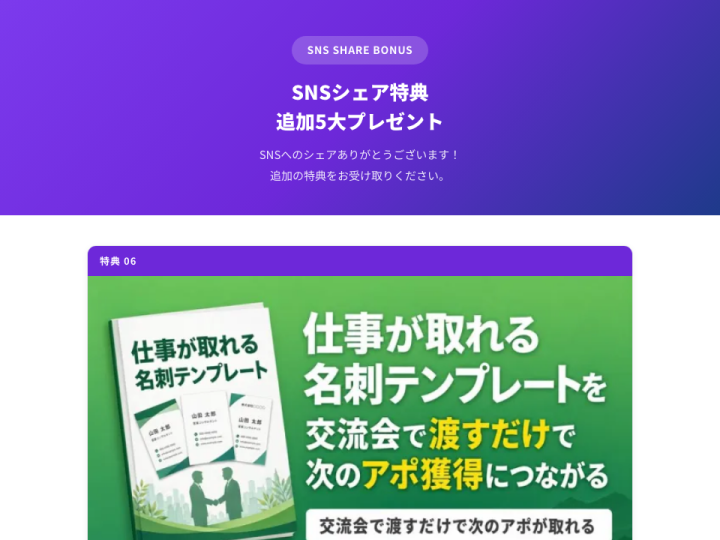
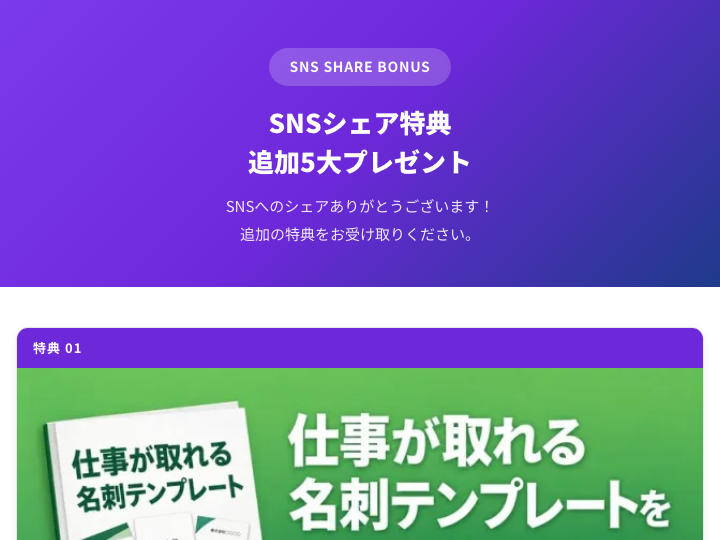
片岡第2期 素材集：特典の番号をSNSシェア特典01〜05・Day1感想特典06〜10に入れ替え

diff --git a/kataoka-phase2-materials/016.html b/kataoka-phase2-materials/016.html
@@ -1,5 +1,5 @@
 <!DOCTYPE html><html lang="ja"><head><meta charset="UTF-8"><meta name="viewport" content="width=device-width, initial-scale=1"><meta name="robots" content="noindex,nofollow">
-<title>特典配布ページ｜Day1感想アウトプット特典（特典01〜05） - 片岡守 第2期（Claude特化型 AI顧問のはじめかた）プロモーション素材集</title><style>
+<title>特典配布ページ｜Day1感想アウトプット特典（特典06〜10） - 片岡守 第2期（Claude特化型 AI顧問のはじめかた）プロモーション素材集</title><style>
 :root {
   --main: #2CB596; --sub: #189B7D; --deep: #0B7564;
   --bg: #F0FAF8; --bg-top: #F7FCFB; --ink: #243B36; --ink-soft: #5B726B;
@@ -481,7 +481,7 @@ a:focus-visible, summary:focus-visible { outline: 3px solid rgba(44,181,150,0.34
 <a href="086.html" class="sidebar-item tree-leaf">個別説明会スライド｜載せる文字</a>
 </details>
 </details></details><a class="tree-all-link" href="contents.html">全件を一覧で見る</a></nav>
-<main class="content"><article class="article"><h1>特典配布ページ｜Day1感想アウトプット特典（特典01〜05）</h1>
+<main class="content"><article class="article"><h1>特典配布ページ｜Day1感想アウトプット特典（特典06〜10）</h1>
 <h2>共有用のページ</h2>
 <p><a href="https://kataoka-phase2-lp.vercel.app/bonus-seminar.html">https://kataoka-phase2-lp.vercel.app/bonus-seminar.html</a></p>
 <table>
@@ -494,7 +494,7 @@ a:focus-visible, summary:focus-visible { outline: 3px solid rgba(44,181,150,0.34
 <tbody>
 <tr>
 <td>ページの役割</td>
-<td>Day1ライブの感想を書き、公式LINEに送った方へ、特典01〜05を渡すページ（URLは公式LINEの個別メッセージで送る）</td>
+<td>Day1ライブの感想を書き、公式LINEに送った方へ、特典06〜10を渡すページ（URLは公式LINEの個別メッセージで送る）</td>
 </tr>
 <tr>
 <td>公開先</td>
@@ -502,7 +502,7 @@ a:focus-visible, summary:focus-visible { outline: 3px solid rgba(44,181,150,0.34
 </tr>
 <tr>
 <td>本文の取得</td>
-<td>2026-11-02 09:36 に共有用ページのHTMLから取得</td>
+<td>2026-11-02 13:30 に共有用ページのHTMLから取得</td>
 </tr>
 </tbody>
 </table>
@@ -512,29 +512,29 @@ a:focus-visible, summary:focus-visible { outline: 3px solid rgba(44,181,150,0.34
 5大プレゼント<br />
 Day1ライブの感想をお寄せいただき、ありがとうございます。<br />
 以下の特典をお受け取りください。<br />
-特典 01<br />
+特典 06<br />
 地方営業導線マップ<br />
 地方で案件を獲得するための営業導線を体系化したマップ。どこで見込み客と出会い、どう契約まで持っていくかを一枚で把握できます。<br />
 マップをダウンロード<br />
 （リンク先：<a href="https://drive.google.com/file/d/1jq5uUUNgsp2WsBQ_XKp92t_mBzqdUF15/view?usp=sharing" target="_blank" rel="noopener noreferrer">https://drive.google.com/file/d/1jq5uUUNgsp2WsBQ_XKp92t_mBzqdUF15/view?usp=sharing</a>）<br />
 解説動画を見る<br />
 （リンク先：<a href="https://drive.google.com/file/d/169h-B5FGeb1Zp_7TQou_ti977GC50bW3/view?usp=sharing" target="_blank" rel="noopener noreferrer">https://drive.google.com/file/d/169h-B5FGeb1Zp_7TQou_ti977GC50bW3/view?usp=sharing</a>）<br />
-特典 02<br />
+特典 07<br />
 売れるチラシテンプレート＆解説<br />
 反応率の高いチラシの型をテンプレート化。構成の考え方から文言の選び方まで、解説付きですぐに使えます。<br />
 ダウンロードはこちら<br />
 （リンク先：<a href="https://drive.google.com/file/d/11pmgWe7V_bNhEUNm1Js8nCniJTqEl5V2/view?usp=sharing" target="_blank" rel="noopener noreferrer">https://drive.google.com/file/d/11pmgWe7V_bNhEUNm1Js8nCniJTqEl5V2/view?usp=sharing</a>）<br />
-特典 03<br />
+特典 08<br />
 AI社員デモテンプレート<br />
 商談でそのまま使えるAI社員のデモンストレーション用テンプレート。「AIってこういうことができるんだ」を一目で伝えられます。<br />
 テンプレートを見る<br />
 （リンク先：<a href="https://docs.google.com/document/d/1ckrZnuyj38S8Jt9OwV8SVcYgF_9SdpEADp7os8AEyP8/edit?usp=sharing" target="_blank" rel="noopener noreferrer">https://docs.google.com/document/d/1ckrZnuyj38S8Jt9OwV8SVcYgF_9SdpEADp7os8AEyP8/edit?usp=sharing</a>）<br />
-特典 04<br />
+特典 09<br />
 契約書テンプレート<br />
 AI業務改善支援の業務委託契約書のひな形。本文をコピーし、当事者名や報酬額を書き込んで使えます。<br />
 テンプレートを見る<br />
 （リンク先：<a href="https://tanakayuc.github.io/static-pages/kataoka-bonus/keiyakusho-template.html" target="_blank" rel="noopener noreferrer">https://tanakayuc.github.io/static-pages/kataoka-bonus/keiyakusho-template.html</a>）<br />
-特典 05<br />
+特典 10<br />
 50万〜150万円で受注するための価格戦略<br />
 高単価で受注するための価格設定の考え方と、クライアントに価値を伝える方法を解説。安売りせずに選ばれるためのガイドです。<br />
 ダウンロードはこちら<br />

diff --git a/kataoka-phase2-materials/015.html b/kataoka-phase2-materials/015.html
@@ -1,5 +1,5 @@
 <!DOCTYPE html><html lang="ja"><head><meta charset="UTF-8"><meta name="viewport" content="width=device-width, initial-scale=1"><meta name="robots" content="noindex,nofollow">
-<title>特典配布ページ｜SNSシェア特典（特典06〜10） - 片岡守 第2期（Claude特化型 AI顧問のはじめかた）プロモーション素材集</title><style>
+<title>特典配布ページ｜SNSシェア特典（特典01〜05） - 片岡守 第2期（Claude特化型 AI顧問のはじめかた）プロモーション素材集</title><style>
 :root {
   --main: #2CB596; --sub: #189B7D; --deep: #0B7564;
   --bg: #F0FAF8; --bg-top: #F7FCFB; --ink: #243B36; --ink-soft: #5B726B;
@@ -481,7 +481,7 @@ a:focus-visible, summary:focus-visible { outline: 3px solid rgba(44,181,150,0.34
 <a href="086.html" class="sidebar-item tree-leaf">個別説明会スライド｜載せる文字</a>
 </details>
 </details></details><a class="tree-all-link" href="contents.html">全件を一覧で見る</a></nav>
-<main class="content"><article class="article"><h1>特典配布ページ｜SNSシェア特典（特典06〜10）</h1>
+<main class="content"><article class="article"><h1>特典配布ページ｜SNSシェア特典（特典01〜05）</h1>
 <h2>共有用のページ</h2>
 <p><a href="https://kataoka-phase2-lp.vercel.app/bonus-sns.html">https://kataoka-phase2-lp.vercel.app/bonus-sns.html</a></p>
 <table>
@@ -494,7 +494,7 @@ a:focus-visible, summary:focus-visible { outline: 3px solid rgba(44,181,150,0.34
 <tbody>
 <tr>
 <td>ページの役割</td>
-<td>SNSでシェアした方へ、特典06〜10を渡すページ</td>
+<td>SNSでシェアした方へ、特典01〜05を渡すページ</td>
 </tr>
 <tr>
 <td>公開先</td>
@@ -502,7 +502,7 @@ a:focus-visible, summary:focus-visible { outline: 3px solid rgba(44,181,150,0.34
 </tr>
 <tr>
 <td>本文の取得</td>
-<td>2026-11-02 09:36 に共有用ページのHTMLから取得</td>
+<td>2026-11-02 13:30 に共有用ページのHTMLから取得</td>
 </tr>
 </tbody>
 </table>
@@ -512,29 +512,29 @@ a:focus-visible, summary:focus-visible { outline: 3px solid rgba(44,181,150,0.34
 追加5大プレゼント<br />
 SNSへのシェアありがとうございます！<br />
 追加の特典をお受け取りください。<br />
-特典 06<br />
+特典 01<br />
 名刺テンプレート<br />
 片岡さんが実際に使っている「二つ折り名刺」をテンプレート化。表面・裏面に何を載せるかと、活用のポイントを解説します。<br />
 テンプレートを見る<br />
 （リンク先：<a href="https://docs.google.com/document/d/1JZL1Ur8GP3UzVbWovmWg3EmXgfHnpza3jlgzXBvrvuk/edit?usp=sharing" target="_blank" rel="noopener noreferrer">https://docs.google.com/document/d/1JZL1Ur8GP3UzVbWovmWg3EmXgfHnpza3jlgzXBvrvuk/edit?usp=sharing</a>）<br />
-特典 07<br />
+特典 02<br />
 交流会で仕事を取るための行動10か条<br />
 交流会の選び方、定例会への参加、名刺、二次会、運営の手伝いなど、交流会で信頼を得て仕事につなげるための行動を10か条にまとめました。<br />
 PDFをダウンロード<br />
 （リンク先：<a href="https://drive.google.com/file/d/1UfaH5tRqp1lm7_6-NwnmJQ5iMrXXen9C/view?usp=sharing" target="_blank" rel="noopener noreferrer">https://drive.google.com/file/d/1UfaH5tRqp1lm7_6-NwnmJQ5iMrXXen9C/view?usp=sharing</a>）<br />
 動画解説を見る<br />
 （リンク先：<a href="https://drive.google.com/file/d/1c-wJpaTgVcC46nHibC7KjlynD1Z1Jvmb/view?usp=sharing" target="_blank" rel="noopener noreferrer">https://drive.google.com/file/d/1c-wJpaTgVcC46nHibC7KjlynD1Z1Jvmb/view?usp=sharing</a>）<br />
-特典 08<br />
+特典 03<br />
 セールススライド<br />
 商談・プレゼンでそのまま使えるセールススライドのテンプレート。AI社員の導入提案の流れが組み込まれています。<br />
 スライドを見る<br />
 （リンク先：<a href="https://docs.google.com/presentation/d/1SoAwapjwZchsGP0iT7yJcKT_GM1P6SQovKS5oakcrx8/edit?usp=sharing" target="_blank" rel="noopener noreferrer">https://docs.google.com/presentation/d/1SoAwapjwZchsGP0iT7yJcKT_GM1P6SQovKS5oakcrx8/edit?usp=sharing</a>）<br />
-特典 09<br />
+特典 04<br />
 AI社員導入コンサルシート<br />
 AI社員の導入に向けて、経営課題のヒアリングから業務の棚卸し、デモの確認、次のステップの合意までを36項目で進められるシート。初回面談からすぐに使えます。<br />
 シートを見る<br />
 （リンク先：<a href="https://docs.google.com/document/d/1d9tH10HXn8APYZSqmKkxGet7mGwx7MqRXcdKTEmJOpc/edit?usp=sharing" target="_blank" rel="noopener noreferrer">https://docs.google.com/document/d/1d9tH10HXn8APYZSqmKkxGet7mGwx7MqRXcdKTEmJOpc/edit?usp=sharing</a>）<br />
-特典 10<br />
+特典 05<br />
 5つの集客方法 完全攻略ガイド<br />
 交流会・Facebook・チラシ・ミニイベント・モニターセミナーの5つの集客方法を、それぞれの進め方とポイントで解説したガイドです。<br />
 ガイドを見る<br />

diff --git a/kataoka-phase2-materials/087.html b/kataoka-phase2-materials/087.html
@@ -494,7 +494,7 @@ a:focus-visible, summary:focus-visible { outline: 3px solid rgba(44,181,150,0.34
 <tbody>
 <tr>
 <td>ページの役割</td>
-<td>Day1ライブの感想を書いた方へ、感想のスクリーンショットを公式LINEに送って特典01〜05を受け取る手順を説明するページ</td>
+<td>Day1ライブの感想を書いた方へ、感想のスクリーンショットを公式LINEに送って特典06〜10を受け取る手順を説明するページ</td>
 </tr>
 <tr>
 <td>公開先</td>
@@ -502,7 +502,7 @@ a:focus-visible, summary:focus-visible { outline: 3px solid rgba(44,181,150,0.34
 </tr>
 <tr>
 <td>本文の取得</td>
-<td>2026-11-02 09:36 に共有用ページのHTMLから取得</td>
+<td>2026-11-02 13:30 に共有用ページのHTMLから取得</td>
 </tr>
 </tbody>
 </table>
@@ -517,11 +517,11 @@ Claude特化型 AI顧問のはじめかた<br />
 Day1ライブの感想を書いてくださった方に、<br />
 5つのプレゼントをお渡しします<br />
 Day1の課題は、ライブの感想をアウトプットすることです。いちばん印象に残ったことを、ご自分の言葉で書いてください。書いてくださった方に、次の5つをお渡しします。<br />
-01地方営業導線マップ<br />
-02売れるチラシテンプレート＆解説<br />
-03AI社員デモテンプレート<br />
-04契約書テンプレート<br />
-0550万〜150万円で受注するための価格戦略<br />
+06地方営業導線マップ<br />
+07売れるチラシテンプレート＆解説<br />
+08AI社員デモテンプレート<br />
+09契約書テンプレート<br />
+1050万〜150万円で受注するための価格戦略<br />
 受け取りまでの流れは、3つです。<br />
 1 Day1の感想を書く → 2 画面をスクリーンショット → 3 公式LINEに送る<br />
 STEP 1<br />

diff --git a/kataoka-phase2-materials/053.html b/kataoka-phase2-materials/053.html
@@ -502,7 +502,7 @@ a:focus-visible, summary:focus-visible { outline: 3px solid rgba(44,181,150,0.34
 </tr>
 <tr>
 <td>本文の取得</td>
-<td>2026-11-02 09:36 に共有用ページのHTMLから取得</td>
+<td>2026-11-02 13:30 に共有用ページのHTMLから取得</td>
 </tr>
 </tbody>
 </table>
@@ -517,11 +517,11 @@ Claude特化型 AI顧問のはじめかた<br />
 SNSの投稿にコメントをくださった方に、<br />
 5つのプレゼントをお渡しします<br />
 セミナーのご案内の投稿のコメント欄に、ひとことコメントを書いてくださった方に、追加の特典をお渡しします。<br />
-06名刺テンプレート<br />
-07交流会で仕事を取るための行動10か条<br />
-08セールススライド<br />
-09AI社員導入コンサルシート<br />
-105つの集客方法 完全攻略ガイド<br />
+01名刺テンプレート<br />
+02交流会で仕事を取るための行動10か条<br />
+03セールススライド<br />
+04AI社員導入コンサルシート<br />
+055つの集客方法 完全攻略ガイド<br />
 受け取りまでの流れは、たった3つです。<br />
 1 投稿にコメント → 2 画面をスクリーンショット → 3 公式LINEに送る<br />
 STEP 1<br />

diff --git a/kataoka-phase2-materials/001.html b/kataoka-phase2-materials/001.html
@@ -1025,7 +1025,7 @@ a:focus-visible, summary:focus-visible { outline: 3px solid rgba(44,181,150,0.34
 <p>メールとLINEは1通ずつ別のページです。各ページの下にある「前後の配信」から、配信順にたどれます。配信原稿は制作済みです。UTAGEとLINEオープンチャットの配信設定は、この素材集では確認していません。</p>
 <h2>確認日と取得方法</h2>
 <ul>
-<li>UTAGEの公開ページは 2026-11-01 18:54、共有用ページ（Vercel）は 2026-11-02 09:36 に取得した本文を載せています。</li>
+<li>UTAGEの公開ページは 2026-11-01 18:54、共有用ページ（Vercel）は 2026-11-02 13:30 に取得した本文を載せています。</li>
 <li>書き出しシートは同日に取得し、登録者の個人情報を伏せて列の構成だけを載せています。</li>
 <li>配信原稿と台本は、第2期フォルダの制作原稿から全文を載せています。</li>
 </ul></article></main></div></body></html>

diff --git a/kataoka-phase2-materials/017.html b/kataoka-phase2-materials/017.html
@@ -502,7 +502,7 @@ a:focus-visible, summary:focus-visible { outline: 3px solid rgba(44,181,150,0.34
 </tr>
 <tr>
 <td>本文の取得</td>
-<td>2026-11-02 09:36 に共有用ページのHTMLから取得</td>
+<td>2026-11-02 13:30 に共有用ページのHTMLから取得</td>
 </tr>
 </tbody>
 </table>
